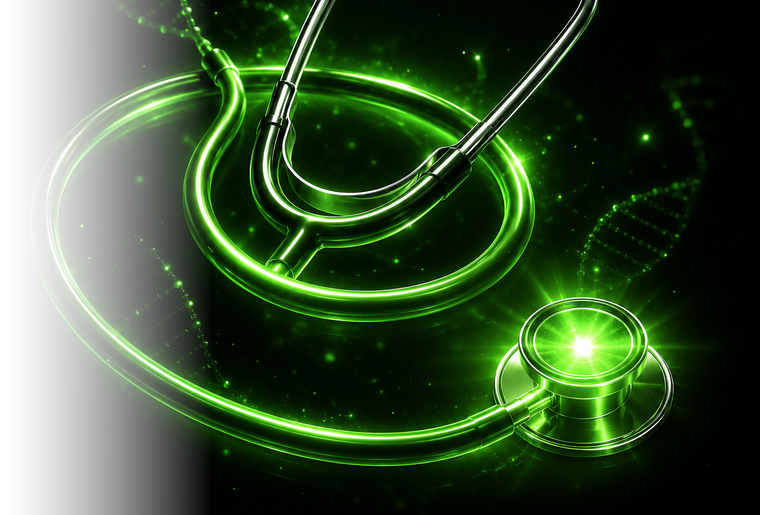
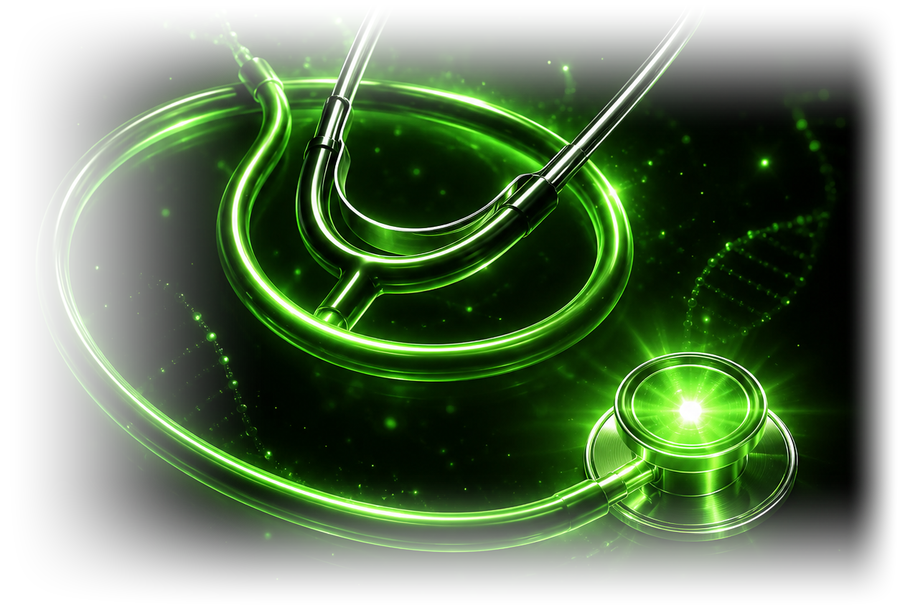
update illustration

diff --git a/frontend/src/pages/Dashboard.jsx b/frontend/src/pages/Dashboard.jsx
@@ -92,21 +92,20 @@ export default function Dashboard() {
         <div className="max-w-7xl mx-auto px-4 sm:px-6 py-8">
 
             {/* Exam Countdown Card */}
-            <div className="relative overflow-hidden flex items-center justify-between gap-3 mb-6 px-5 py-5 rounded-2xl border border-[#FFD700]/25 fade-up"
-                style={{ background: "linear-gradient(90deg, rgba(255,215,0,0.08), rgba(0,0,0,0))" }}>
+            <div className="relative overflow-hidden flex items-center justify-between gap-3 mb-6 px-5 py-8 sm:py-10 rounded-2xl border border-[#FFD700]/25 fade-up"
+                style={{ background: "linear-gradient(90deg, rgba(255,215,0,0.04), #060806)" }}>
                 <div className="relative z-10">
                     <div className="flex items-center gap-2 mb-1">
                         <Calendar className="w-4 h-4 text-[#FFD700]" />
                         <span className="font-mono text-xs sm:text-sm text-white/70">NEET 2027</span>
                     </div>
-                    <div className="font-heading text-4xl sm:text-5xl font-black text-[#00FF66]"
-                        style={{ textShadow: "0 0 10px rgba(0,255,102,0.6), 0 0 26px rgba(0,255,102,0.35)" }}>
+                    <div className="font-heading text-4xl sm:text-5xl font-black text-[#00FF66]">
                         {daysLeft}
                     </div>
                     <span className="font-mono text-xs text-white/50 uppercase tracking-widest">Days Left</span>
                 </div>
                 <img src="/steth-illustration.png" alt=""
-                    className="absolute right-0 top-1/2 -translate-y-1/2 h-28 sm:h-36 w-auto object-contain opacity-95 pointer-events-none" />
+                    className="absolute right-0 top-1/2 -translate-y-1/2 h-40 sm:h-52 w-auto object-contain opacity-95 pointer-events-none" />
             </div>
 
             {/* Welcome Header */}
